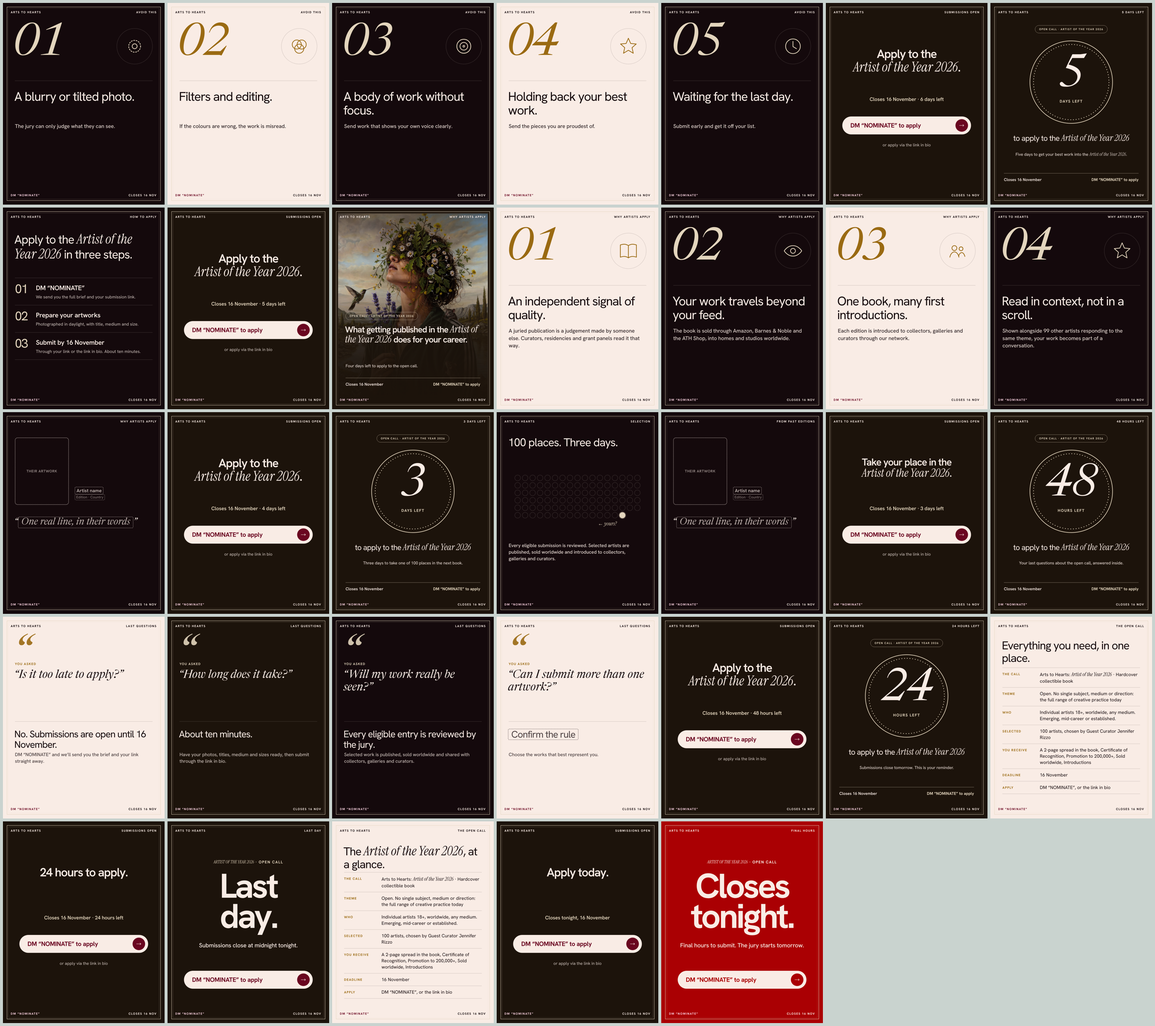
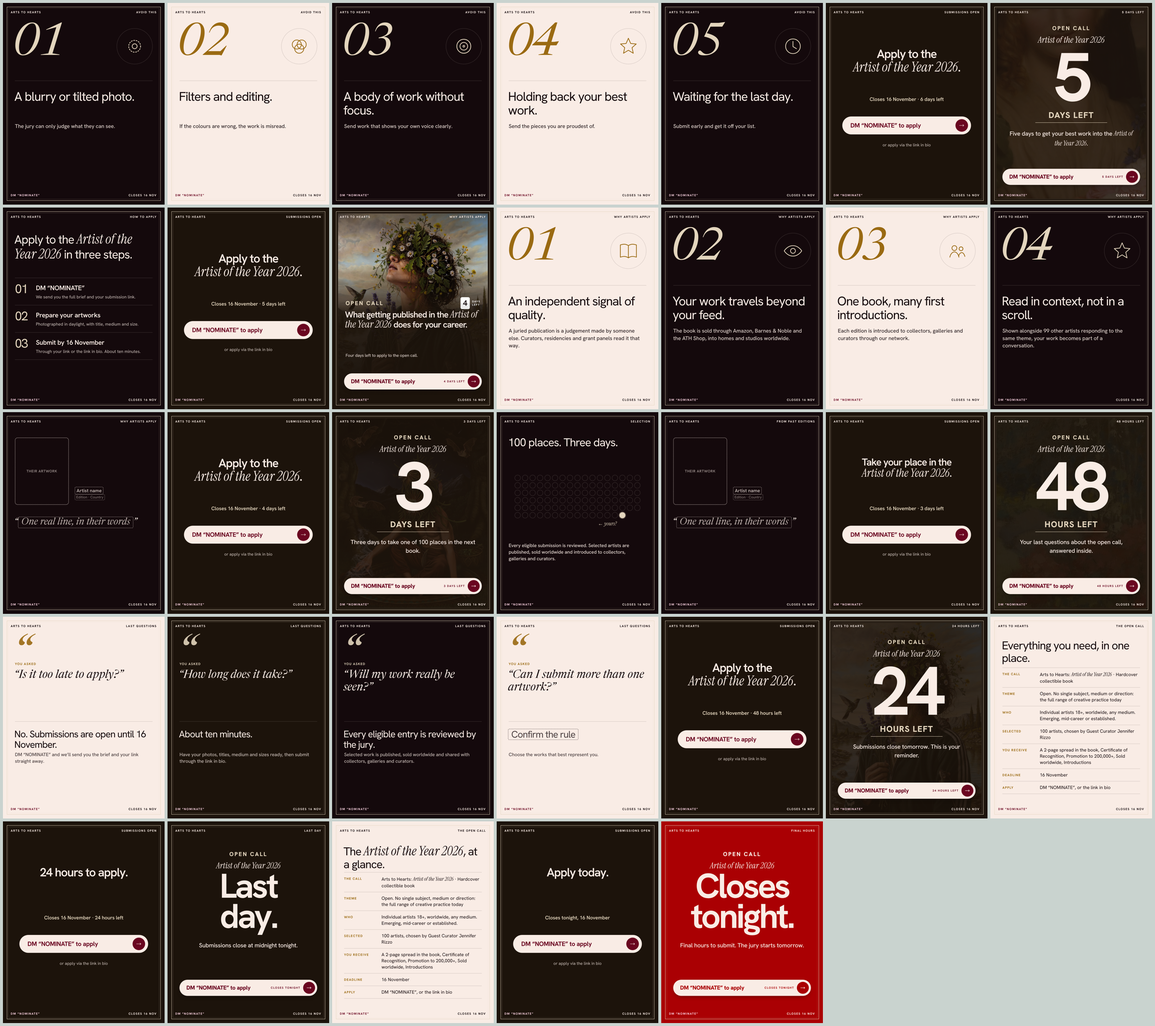
Conversion covers: big OPEN CALL label, bold countdown numerals, keyword + time-left action button
Claude-Session: https://claude.ai/code/session_01Bc4gkdxg6i3YRuybqzVB3k

diff --git a/design/campaigns/open-calls/month.js b/design/campaigns/open-calls/month.js
@@ -44,6 +44,15 @@ const ICON = {
 };
 const icon = (k, c, size=220) => `<svg width="${size}" height="${size}" viewBox="0 0 120 120" fill="none" stroke="${c}" stroke-width="4" stroke-linecap="round" stroke-linejoin="round">${ICON[k]||''}</svg>`;
 
+// big OPEN CALL label: the keyword artists scan for
+const OPENCALL = (c, center) => `<p style="font-size:38px;font-weight:800;letter-spacing:.16em;line-height:1;color:${c};${center ? 'text-align:center' : ''}">OPEN CALL</p>`;
+// the action: keyword + time left in one button
+const actionBtn = (top, chilli) => { const fg = chilli ? '#AA0003' : BURG;
+  return `<div class="a" style="left:80px;right:80px;top:${top}px;height:108px;border-radius:999px;background:${CREAM};color:${fg};display:flex;align-items:center;justify-content:space-between;padding:0 14px 0 46px;box-shadow:0 14px 30px -12px rgba(0,0,0,.45)">
+    <span style="font-size:38px;font-weight:800;letter-spacing:-.02em">${VERB} “${KW()}” to apply</span>
+    <span style="display:flex;align-items:center;gap:18px"><span class="cn" style="font-size:19px;color:${fg}">${leftLabel()}</span>
+    <span style="width:80px;height:80px;border-radius:50%;background:${fg};color:${CREAM};display:inline-flex;align-items:center;justify-content:center"><svg width="32" height="14" viewBox="0 0 46 20"><path d="M2 10h40M33 2l9 8-9 8" fill="none" stroke="currentColor" stroke-width="3.5" stroke-linecap="round" stroke-linejoin="round"/></svg></span></span></div>`; };
+
 // ---------- grounds ----------
 const G = {
   ink:   () => ({bg:INK,   fg:WHITE, acc:tint(state.colour), dm:PEONY, line:'rgba(255,255,255,.2)'}),
@@ -92,21 +101,20 @@ const T = {
   // countdown cover: artwork, the open call, one big number, what it is for
   count(o){
     const tone = o.tone || 'ink';
-    const shade = tone === 'green' ? `linear-gradient(180deg,${rgba(state.colour,.55)} 0%,${rgba(state.colour,.2)} 30%,${rgba(state.colour,.85)} 62%,${state.colour} 100%)`
-      : tone === 'chilli' ? 'linear-gradient(180deg,rgba(120,0,2,.6) 0%,rgba(120,0,2,.25) 30%,rgba(150,0,3,.9) 62%,#AA0003 100%)'
-      : 'linear-gradient(180deg,rgba(20,9,12,.6) 0%,rgba(20,9,12,.2) 30%,rgba(20,9,12,.85) 62%,rgba(20,9,12,.97) 100%)';
+    const shade = tone === 'green' ? `linear-gradient(180deg,${rgba(state.colour,.55)} 0%,${rgba(state.colour,.25)} 30%,${rgba(state.colour,.9)} 60%,${state.colour} 100%)`
+      : tone === 'chilli' ? 'linear-gradient(180deg,rgba(120,0,2,.6) 0%,rgba(120,0,2,.3) 30%,rgba(150,0,3,.92) 60%,#AA0003 100%)'
+      : 'linear-gradient(180deg,rgba(20,9,12,.6) 0%,rgba(20,9,12,.3) 30%,rgba(20,9,12,.88) 58%,rgba(20,9,12,.97) 100%)';
     const acc = tone === 'ink' ? tint(state.colour) : CREAM;
+    const big = String(o.big), size = big.length <= 2 ? 480 : big.length <= 8 ? 220 : 170;
     return {bg:INK, html:`${imgDiv(o.img || ART[0], 'inset:0', o.pos || 'center 25%')}
       <div class="a" style="inset:0;background:${shade}"></div>
       ${corners(WHITE, PEONY, o.tr || leftLabel())}
-      <div class="a" style="left:0;right:0;top:190px;display:flex;justify-content:center">${callBtn()}</div>
-      <p class="a c" style="left:0;right:0;top:${o.bigTop||330}px;font-size:${o.bigSize||400}px;font-weight:500;letter-spacing:-.06em;line-height:.85;color:${WHITE}">${o.big}</p>
-      <p class="a c R" style="left:60px;right:60px;top:${o.unitTop||690}px;font-size:${o.unitSize||84}px;color:${WHITE}">${o.unit}</p>
-      <p class="a c scr" style="left:60px;right:60px;top:${(o.unitTop||690)+(o.unitGap||110)}px;font-size:60px;line-height:1.05;color:${acc}">${o.line || `to apply · ${esc(state.name)} open call`}</p>
-      <p class="a c sub" style="left:140px;right:140px;top:${o.infoTop||990}px;font-size:30px;color:${WHITE};opacity:.9">${o.info || `${themeTag()}${esc(state.selected)} artists will be published in a juried hardcover book.`}</p>
-      <div class="a" style="left:80px;right:80px;top:1150px;display:flex;justify-content:space-between;align-items:center;padding-top:22px;border-top:2px solid rgba(255,255,255,.3)">
-        <span style="font-size:28px;font-weight:600;color:${WHITE}">Closes ${dateLong()}</span>
-        <span style="font-size:28px;font-weight:700;color:${acc}">${VERB} “${KW()}” to apply</span></div>`};
+      <div class="a" style="left:0;right:0;top:150px">${OPENCALL(acc, true)}</div>
+      <p class="a c scr" style="left:0;right:0;top:205px;font-size:58px;color:${WHITE}">${esc(state.name)}</p>
+      <p class="a c" style="left:0;right:0;top:${big.length <= 2 ? 300 : 380}px;font-size:${size}px;font-weight:700;letter-spacing:-.06em;line-height:.85;color:${WHITE}">${big}</p>
+      <p class="a c" style="left:0;right:0;top:${big.length <= 2 ? 720 : 640}px;font-size:56px;font-weight:800;letter-spacing:.06em;text-transform:uppercase;color:${acc}">${esc(o.unit)}</p>
+      <p class="a c" style="left:120px;right:120px;top:${big.length <= 2 ? 820 : 760}px;font-size:40px;font-weight:500;letter-spacing:-.015em;color:${WHITE}">${o.info || `to get your work into a juried hardcover book of ${esc(state.selected)} artists.`}</p>
+      ${actionBtn(1110, tone === 'chilli')}`};
   },
   // the whole open call on one page
   brief(o = {}){
@@ -213,25 +221,19 @@ const T = {
   // closing slide of every carousel: one clear action
   // every carousel opens on this: what it is, why it matters, when it closes, how to act
   hook(o){
-    const strip = (fg, acc) => `
-      <div class="a" style="left:80px;right:80px;top:1150px;display:flex;justify-content:space-between;align-items:center;padding-top:22px;border-top:2px solid ${fg === WHITE ? 'rgba(255,255,255,.3)' : 'rgba(20,9,12,.2)'}">
-        <span style="font-size:28px;font-weight:600;color:${fg}">Closes ${dateLong()}</span>
-        <span style="font-size:28px;font-weight:700;color:${acc}">${VERB} “${KW()}” to apply</span></div>`;
+    const shrink = String(state.name).length > 16 ? .86 : 1;
+    const head = (fg, acc, timerDark) => `
+      <div class="a" style="left:80px;right:80px;top:600px;display:flex;justify-content:space-between;align-items:center">${OPENCALL(acc)}${timer(timerDark)}</div>
+      <p class="a H" style="left:76px;right:80px;top:680px;font-size:${Math.round((o.size||84) * shrink)}px;color:${fg}">${o.head}</p>
+      ${o.sub ? `<p class="a sub" style="left:80px;right:140px;top:${o.subTop||970}px;font-size:29px;color:${fg};opacity:.9">${o.sub}</p>` : ''}
+      ${actionBtn(1110)}`;
     if (o.img) return {bg:INK, html:`${imgDiv(o.img,'inset:0',o.pos||'center 30%')}
-      <div class="a" style="inset:0;background:linear-gradient(180deg,rgba(20,9,12,.45) 0%,rgba(20,9,12,0) 18%,rgba(20,9,12,0) 34%,rgba(20,9,12,.82) 58%,rgba(20,9,12,.95) 100%)"></div>
-      ${corners(WHITE, PEONY, o.tr)}
-      <div class="a" style="left:80px;right:80px;top:620px;display:flex;justify-content:space-between;align-items:center">${callBtn()}${timer(false)}</div>
-      <p class="a H" style="left:76px;right:80px;top:740px;font-size:${Math.round((o.size||88) * (String(state.name).length > 16 ? .86 : 1))}px;color:${WHITE}">${o.head}</p>
-      ${o.sub ? `<p class="a sub" style="left:80px;right:140px;top:${o.subTop||1030}px;color:${WHITE};opacity:.9">${o.sub}</p>` : ''}
-      ${strip(WHITE, tint(state.colour))}`};
+      <div class="a" style="inset:0;background:linear-gradient(180deg,rgba(20,9,12,.45) 0%,rgba(20,9,12,0) 16%,rgba(20,9,12,0) 30%,rgba(20,9,12,.85) 52%,rgba(20,9,12,.96) 100%)"></div>
+      ${corners(WHITE, PEONY, o.tr)}${head(WHITE, tint(state.colour), false)}`};
     const g = G[o.ground||'ink']();
-    const pic = o.img2 !== undefined ? slot(o.img2, o.imgLabel || 'Real photo needed', 'left:80px;right:80px;top:140px;height:440px', g.fg)
-      : imgDiv(o.art || ART[0], 'left:80px;right:80px;top:140px;height:440px;border-radius:18px', o.artPos || 'center 30%');
-    return {bg:g.bg, html:`${corners(g.fg, g.dm, o.tr)}${pic}
-      <div class="a" style="left:80px;right:80px;top:620px;display:flex;justify-content:space-between;align-items:center">${callBtn()}${timer(g.bg === CREAM)}</div>
-      <p class="a H" style="left:76px;right:80px;top:740px;font-size:${Math.round((o.size||80) * (String(state.name).length > 16 ? .86 : 1))}px;color:${g.fg}">${o.head}</p>
-      ${o.sub ? `<p class="a sub" style="left:80px;right:140px;top:${o.subTop||1030}px;color:${g.fg};opacity:.85">${o.sub}</p>` : ''}
-      ${strip(g.fg, g.acc)}`};
+    const pic = o.img2 !== undefined ? slot(o.img2, o.imgLabel || 'Real photo needed', 'left:80px;right:80px;top:130px;height:430px', g.fg)
+      : imgDiv(o.art || ART[0], 'left:80px;right:80px;top:130px;height:430px;border-radius:18px', o.artPos || 'center 30%');
+    return {bg:g.bg, html:`${corners(g.fg, g.dm, o.tr)}${pic}${head(g.fg, g.acc, g.bg === CREAM)}`};
   },
   // after every countdown: what the deadline is for
   value(o = {}){
@@ -284,30 +286,32 @@ const awardTag = () => `<span class="cn" style="display:inline-flex;align-items:
 const AW = {
   hook(o){ const c = gold();
     return {bg:AWARD_BG, html:`${imgDiv(o.img || o.art || ART[0], 'left:40px;right:40px;top:40px;bottom:40px', o.pos || o.artPos || 'center 30%')}
-      <div class="a" style="left:40px;right:40px;top:40px;bottom:40px;background:linear-gradient(180deg,rgba(28,19,11,.5) 0%,rgba(28,19,11,0) 22%,rgba(28,19,11,0) 40%,rgba(28,19,11,.88) 64%,#1C130B 100%)"></div>
+      <div class="a" style="left:40px;right:40px;top:40px;bottom:40px;background:linear-gradient(180deg,rgba(28,19,11,.5) 0%,rgba(28,19,11,0) 18%,rgba(28,19,11,0) 30%,rgba(28,19,11,.9) 52%,#1C130B 100%)"></div>
       ${frame(c)}${corners(CREAM, PEONY, o.tr)}
-      <div class="a" style="left:90px;top:700px">${awardTag()}</div>
-      <p class="a H" style="left:86px;right:90px;top:780px;font-size:${Math.round((o.size||80)*.8)}px;color:${CREAM}">${o.head}</p>
-      ${o.sub ? `<p class="a sub" style="left:90px;right:150px;top:1040px;font-size:28px;color:${CREAM};opacity:.85">${o.sub}</p>` : ''}
-      ${strip(CREAM, c)}`};
+      <div class="a" style="left:90px;right:90px;top:600px;display:flex;justify-content:space-between;align-items:center">${OPENCALL(c)}${timer(false)}</div>
+      <p class="a H" style="left:86px;right:90px;top:680px;font-size:${Math.round((o.size||80)*.8)}px;color:${CREAM}">${o.head}</p>
+      ${o.sub ? `<p class="a sub" style="left:90px;right:150px;top:970px;font-size:28px;color:${CREAM};opacity:.85">${o.sub}</p>` : ''}
+      ${actionBtn(1110)}`};
   },
-  count(o){ const c = gold(); const tone = o.tone === 'chilli' ? '#5A0A0A' : AWARD_BG;
-    const big = String(o.big); const size = big.length <= 2 ? 300 : big.length <= 8 ? 120 : 96;
-    return {bg:tone, html:`${frame(c)}${corners(CREAM, PEONY, o.tr || leftLabel())}
-      <div class="a c" style="left:0;right:0;top:150px">${awardTag()}</div>
-      ${laurel(c, 600).replace('{TOP}', 230)}
-      <div class="a c" style="left:0;right:0;top:${big.length <= 2 ? 360 : 440}px">${serifNum(big, size, CREAM)}</div>
-      <p class="a c lab" style="left:0;right:0;top:${big.length <= 2 ? 640 : 610}px;color:${c};font-size:26px">${esc(o.unit)}</p>
-      <p class="a c R" style="left:110px;right:110px;top:870px;font-size:52px;color:${CREAM}">to apply to the ${GE()}</p>
-      <p class="a c sub" style="left:160px;right:160px;top:${o.infoTop ? o.infoTop + 40 : 990}px;font-size:28px;color:${CREAM};opacity:.85">${o.info || `${esc(state.selected)} artists will be published in a juried hardcover book.`}</p>
-      ${strip(CREAM, c)}`};
+  count(o){ const c = gold(); const chilli = o.tone === 'chilli'; const bg = chilli ? '#5A0A0A' : AWARD_BG;
+    const big = String(o.big), size = big.length <= 2 ? 460 : big.length <= 8 ? 200 : 150;
+    return {bg, html:`${imgDiv(o.img || ART[0], 'left:40px;right:40px;top:40px;bottom:40px', o.pos || 'center 30%')}
+      <div class="a" style="left:40px;right:40px;top:40px;bottom:40px;background:${chilli ? 'rgba(90,10,10,.9)' : 'rgba(28,19,11,.86)'}"></div>
+      ${frame(c)}${corners(CREAM, PEONY, o.tr || leftLabel())}
+      <div class="a" style="left:0;right:0;top:150px">${OPENCALL(c, true)}</div>
+      <p class="a c scr" style="left:0;right:0;top:205px;font-size:58px;color:${CREAM}">${esc(state.name)}</p>
+      <p class="a c" style="left:0;right:0;top:${big.length <= 2 ? 300 : 380}px;font-size:${size}px;font-weight:700;letter-spacing:-.05em;line-height:.85;color:${CREAM}">${big}</p>
+      <p class="a c" style="left:0;right:0;top:${big.length <= 2 ? 710 : 630}px;font-size:56px;font-weight:800;letter-spacing:.06em;text-transform:uppercase;color:${c}">${esc(o.unit)}</p>
+      <div class="a" style="left:300px;right:300px;top:${big.length <= 2 ? 800 : 730}px;border-top:2px solid ${c}"></div>
+      <p class="a c" style="left:120px;right:120px;top:${big.length <= 2 ? 840 : 770}px;font-size:40px;font-weight:500;letter-spacing:-.015em;color:${CREAM}">${o.info || `to get your work into a juried hardcover book of ${esc(state.selected)} artists.`}</p>
+      ${actionBtn(1110, chilli)}`};
   },
 };
 // final day: one message, nothing else
 T.urgent = (o) => { const award = isAward(); const bg = o.chilli ? '#AA0003' : (award ? AWARD_BG : INK); const acc = o.chilli ? CREAM : tint(state.colour);
-  const btn = btnCTA(CREAM, o.chilli ? '#AA0003' : BURG, o.chilli ? '#AA0003' : BURG).replace('{TOP}', 1000);
+  const btn = actionBtn(1060, o.chilli);
   return {bg, html:`${award ? frame(gold()) : ''}${corners(CREAM, PEONY, o.tr || 'Final day')}
-    <p class="a c lab" style="left:0;right:0;top:250px;color:${acc};font-size:26px">${GE()} · open call</p>
+    <div class="a" style="left:0;right:0;top:200px">${OPENCALL(acc, true)}</div><p class="a c scr" style="left:0;right:0;top:255px;font-size:56px;color:${CREAM}">${esc(state.name)}</p>
     <p class="a c" style="left:40px;right:40px;top:330px;font-size:${o.size||230}px;font-weight:700;letter-spacing:-.055em;line-height:.88;color:${CREAM}">${o.head}</p>
     <p class="a c" style="left:120px;right:120px;top:${o.subTop||800}px;font-size:40px;font-weight:500;letter-spacing:-.015em;color:${CREAM}">${o.sub}</p>
     ${btn}`};

diff --git a/site/post-studio/month.js b/site/post-studio/month.js
@@ -44,6 +44,15 @@ const ICON = {
 };
 const icon = (k, c, size=220) => `<svg width="${size}" height="${size}" viewBox="0 0 120 120" fill="none" stroke="${c}" stroke-width="4" stroke-linecap="round" stroke-linejoin="round">${ICON[k]||''}</svg>`;
 
+// big OPEN CALL label: the keyword artists scan for
+const OPENCALL = (c, center) => `<p style="font-size:38px;font-weight:800;letter-spacing:.16em;line-height:1;color:${c};${center ? 'text-align:center' : ''}">OPEN CALL</p>`;
+// the action: keyword + time left in one button
+const actionBtn = (top, chilli) => { const fg = chilli ? '#AA0003' : BURG;
+  return `<div class="a" style="left:80px;right:80px;top:${top}px;height:108px;border-radius:999px;background:${CREAM};color:${fg};display:flex;align-items:center;justify-content:space-between;padding:0 14px 0 46px;box-shadow:0 14px 30px -12px rgba(0,0,0,.45)">
+    <span style="font-size:38px;font-weight:800;letter-spacing:-.02em">${VERB} “${KW()}” to apply</span>
+    <span style="display:flex;align-items:center;gap:18px"><span class="cn" style="font-size:19px;color:${fg}">${leftLabel()}</span>
+    <span style="width:80px;height:80px;border-radius:50%;background:${fg};color:${CREAM};display:inline-flex;align-items:center;justify-content:center"><svg width="32" height="14" viewBox="0 0 46 20"><path d="M2 10h40M33 2l9 8-9 8" fill="none" stroke="currentColor" stroke-width="3.5" stroke-linecap="round" stroke-linejoin="round"/></svg></span></span></div>`; };
+
 // ---------- grounds ----------
 const G = {
   ink:   () => ({bg:INK,   fg:WHITE, acc:tint(state.colour), dm:PEONY, line:'rgba(255,255,255,.2)'}),
@@ -92,21 +101,20 @@ const T = {
   // countdown cover: artwork, the open call, one big number, what it is for
   count(o){
     const tone = o.tone || 'ink';
-    const shade = tone === 'green' ? `linear-gradient(180deg,${rgba(state.colour,.55)} 0%,${rgba(state.colour,.2)} 30%,${rgba(state.colour,.85)} 62%,${state.colour} 100%)`
-      : tone === 'chilli' ? 'linear-gradient(180deg,rgba(120,0,2,.6) 0%,rgba(120,0,2,.25) 30%,rgba(150,0,3,.9) 62%,#AA0003 100%)'
-      : 'linear-gradient(180deg,rgba(20,9,12,.6) 0%,rgba(20,9,12,.2) 30%,rgba(20,9,12,.85) 62%,rgba(20,9,12,.97) 100%)';
+    const shade = tone === 'green' ? `linear-gradient(180deg,${rgba(state.colour,.55)} 0%,${rgba(state.colour,.25)} 30%,${rgba(state.colour,.9)} 60%,${state.colour} 100%)`
+      : tone === 'chilli' ? 'linear-gradient(180deg,rgba(120,0,2,.6) 0%,rgba(120,0,2,.3) 30%,rgba(150,0,3,.92) 60%,#AA0003 100%)'
+      : 'linear-gradient(180deg,rgba(20,9,12,.6) 0%,rgba(20,9,12,.3) 30%,rgba(20,9,12,.88) 58%,rgba(20,9,12,.97) 100%)';
     const acc = tone === 'ink' ? tint(state.colour) : CREAM;
+    const big = String(o.big), size = big.length <= 2 ? 480 : big.length <= 8 ? 220 : 170;
     return {bg:INK, html:`${imgDiv(o.img || ART[0], 'inset:0', o.pos || 'center 25%')}
       <div class="a" style="inset:0;background:${shade}"></div>
       ${corners(WHITE, PEONY, o.tr || leftLabel())}
-      <div class="a" style="left:0;right:0;top:190px;display:flex;justify-content:center">${callBtn()}</div>
-      <p class="a c" style="left:0;right:0;top:${o.bigTop||330}px;font-size:${o.bigSize||400}px;font-weight:500;letter-spacing:-.06em;line-height:.85;color:${WHITE}">${o.big}</p>
-      <p class="a c R" style="left:60px;right:60px;top:${o.unitTop||690}px;font-size:${o.unitSize||84}px;color:${WHITE}">${o.unit}</p>
-      <p class="a c scr" style="left:60px;right:60px;top:${(o.unitTop||690)+(o.unitGap||110)}px;font-size:60px;line-height:1.05;color:${acc}">${o.line || `to apply · ${esc(state.name)} open call`}</p>
-      <p class="a c sub" style="left:140px;right:140px;top:${o.infoTop||990}px;font-size:30px;color:${WHITE};opacity:.9">${o.info || `${themeTag()}${esc(state.selected)} artists will be published in a juried hardcover book.`}</p>
-      <div class="a" style="left:80px;right:80px;top:1150px;display:flex;justify-content:space-between;align-items:center;padding-top:22px;border-top:2px solid rgba(255,255,255,.3)">
-        <span style="font-size:28px;font-weight:600;color:${WHITE}">Closes ${dateLong()}</span>
-        <span style="font-size:28px;font-weight:700;color:${acc}">${VERB} “${KW()}” to apply</span></div>`};
+      <div class="a" style="left:0;right:0;top:150px">${OPENCALL(acc, true)}</div>
+      <p class="a c scr" style="left:0;right:0;top:205px;font-size:58px;color:${WHITE}">${esc(state.name)}</p>
+      <p class="a c" style="left:0;right:0;top:${big.length <= 2 ? 300 : 380}px;font-size:${size}px;font-weight:700;letter-spacing:-.06em;line-height:.85;color:${WHITE}">${big}</p>
+      <p class="a c" style="left:0;right:0;top:${big.length <= 2 ? 720 : 640}px;font-size:56px;font-weight:800;letter-spacing:.06em;text-transform:uppercase;color:${acc}">${esc(o.unit)}</p>
+      <p class="a c" style="left:120px;right:120px;top:${big.length <= 2 ? 820 : 760}px;font-size:40px;font-weight:500;letter-spacing:-.015em;color:${WHITE}">${o.info || `to get your work into a juried hardcover book of ${esc(state.selected)} artists.`}</p>
+      ${actionBtn(1110, tone === 'chilli')}`};
   },
   // the whole open call on one page
   brief(o = {}){
@@ -213,25 +221,19 @@ const T = {
   // closing slide of every carousel: one clear action
   // every carousel opens on this: what it is, why it matters, when it closes, how to act
   hook(o){
-    const strip = (fg, acc) => `
-      <div class="a" style="left:80px;right:80px;top:1150px;display:flex;justify-content:space-between;align-items:center;padding-top:22px;border-top:2px solid ${fg === WHITE ? 'rgba(255,255,255,.3)' : 'rgba(20,9,12,.2)'}">
-        <span style="font-size:28px;font-weight:600;color:${fg}">Closes ${dateLong()}</span>
-        <span style="font-size:28px;font-weight:700;color:${acc}">${VERB} “${KW()}” to apply</span></div>`;
+    const shrink = String(state.name).length > 16 ? .86 : 1;
+    const head = (fg, acc, timerDark) => `
+      <div class="a" style="left:80px;right:80px;top:600px;display:flex;justify-content:space-between;align-items:center">${OPENCALL(acc)}${timer(timerDark)}</div>
+      <p class="a H" style="left:76px;right:80px;top:680px;font-size:${Math.round((o.size||84) * shrink)}px;color:${fg}">${o.head}</p>
+      ${o.sub ? `<p class="a sub" style="left:80px;right:140px;top:${o.subTop||970}px;font-size:29px;color:${fg};opacity:.9">${o.sub}</p>` : ''}
+      ${actionBtn(1110)}`;
     if (o.img) return {bg:INK, html:`${imgDiv(o.img,'inset:0',o.pos||'center 30%')}
-      <div class="a" style="inset:0;background:linear-gradient(180deg,rgba(20,9,12,.45) 0%,rgba(20,9,12,0) 18%,rgba(20,9,12,0) 34%,rgba(20,9,12,.82) 58%,rgba(20,9,12,.95) 100%)"></div>
-      ${corners(WHITE, PEONY, o.tr)}
-      <div class="a" style="left:80px;right:80px;top:620px;display:flex;justify-content:space-between;align-items:center">${callBtn()}${timer(false)}</div>
-      <p class="a H" style="left:76px;right:80px;top:740px;font-size:${Math.round((o.size||88) * (String(state.name).length > 16 ? .86 : 1))}px;color:${WHITE}">${o.head}</p>
-      ${o.sub ? `<p class="a sub" style="left:80px;right:140px;top:${o.subTop||1030}px;color:${WHITE};opacity:.9">${o.sub}</p>` : ''}
-      ${strip(WHITE, tint(state.colour))}`};
+      <div class="a" style="inset:0;background:linear-gradient(180deg,rgba(20,9,12,.45) 0%,rgba(20,9,12,0) 16%,rgba(20,9,12,0) 30%,rgba(20,9,12,.85) 52%,rgba(20,9,12,.96) 100%)"></div>
+      ${corners(WHITE, PEONY, o.tr)}${head(WHITE, tint(state.colour), false)}`};
     const g = G[o.ground||'ink']();
-    const pic = o.img2 !== undefined ? slot(o.img2, o.imgLabel || 'Real photo needed', 'left:80px;right:80px;top:140px;height:440px', g.fg)
-      : imgDiv(o.art || ART[0], 'left:80px;right:80px;top:140px;height:440px;border-radius:18px', o.artPos || 'center 30%');
-    return {bg:g.bg, html:`${corners(g.fg, g.dm, o.tr)}${pic}
-      <div class="a" style="left:80px;right:80px;top:620px;display:flex;justify-content:space-between;align-items:center">${callBtn()}${timer(g.bg === CREAM)}</div>
-      <p class="a H" style="left:76px;right:80px;top:740px;font-size:${Math.round((o.size||80) * (String(state.name).length > 16 ? .86 : 1))}px;color:${g.fg}">${o.head}</p>
-      ${o.sub ? `<p class="a sub" style="left:80px;right:140px;top:${o.subTop||1030}px;color:${g.fg};opacity:.85">${o.sub}</p>` : ''}
-      ${strip(g.fg, g.acc)}`};
+    const pic = o.img2 !== undefined ? slot(o.img2, o.imgLabel || 'Real photo needed', 'left:80px;right:80px;top:130px;height:430px', g.fg)
+      : imgDiv(o.art || ART[0], 'left:80px;right:80px;top:130px;height:430px;border-radius:18px', o.artPos || 'center 30%');
+    return {bg:g.bg, html:`${corners(g.fg, g.dm, o.tr)}${pic}${head(g.fg, g.acc, g.bg === CREAM)}`};
   },
   // after every countdown: what the deadline is for
   value(o = {}){
@@ -284,30 +286,32 @@ const awardTag = () => `<span class="cn" style="display:inline-flex;align-items:
 const AW = {
   hook(o){ const c = gold();
     return {bg:AWARD_BG, html:`${imgDiv(o.img || o.art || ART[0], 'left:40px;right:40px;top:40px;bottom:40px', o.pos || o.artPos || 'center 30%')}
-      <div class="a" style="left:40px;right:40px;top:40px;bottom:40px;background:linear-gradient(180deg,rgba(28,19,11,.5) 0%,rgba(28,19,11,0) 22%,rgba(28,19,11,0) 40%,rgba(28,19,11,.88) 64%,#1C130B 100%)"></div>
+      <div class="a" style="left:40px;right:40px;top:40px;bottom:40px;background:linear-gradient(180deg,rgba(28,19,11,.5) 0%,rgba(28,19,11,0) 18%,rgba(28,19,11,0) 30%,rgba(28,19,11,.9) 52%,#1C130B 100%)"></div>
       ${frame(c)}${corners(CREAM, PEONY, o.tr)}
-      <div class="a" style="left:90px;top:700px">${awardTag()}</div>
-      <p class="a H" style="left:86px;right:90px;top:780px;font-size:${Math.round((o.size||80)*.8)}px;color:${CREAM}">${o.head}</p>
-      ${o.sub ? `<p class="a sub" style="left:90px;right:150px;top:1040px;font-size:28px;color:${CREAM};opacity:.85">${o.sub}</p>` : ''}
-      ${strip(CREAM, c)}`};
+      <div class="a" style="left:90px;right:90px;top:600px;display:flex;justify-content:space-between;align-items:center">${OPENCALL(c)}${timer(false)}</div>
+      <p class="a H" style="left:86px;right:90px;top:680px;font-size:${Math.round((o.size||80)*.8)}px;color:${CREAM}">${o.head}</p>
+      ${o.sub ? `<p class="a sub" style="left:90px;right:150px;top:970px;font-size:28px;color:${CREAM};opacity:.85">${o.sub}</p>` : ''}
+      ${actionBtn(1110)}`};
   },
-  count(o){ const c = gold(); const tone = o.tone === 'chilli' ? '#5A0A0A' : AWARD_BG;
-    const big = String(o.big); const size = big.length <= 2 ? 300 : big.length <= 8 ? 120 : 96;
-    return {bg:tone, html:`${frame(c)}${corners(CREAM, PEONY, o.tr || leftLabel())}
-      <div class="a c" style="left:0;right:0;top:150px">${awardTag()}</div>
-      ${laurel(c, 600).replace('{TOP}', 230)}
-      <div class="a c" style="left:0;right:0;top:${big.length <= 2 ? 360 : 440}px">${serifNum(big, size, CREAM)}</div>
-      <p class="a c lab" style="left:0;right:0;top:${big.length <= 2 ? 640 : 610}px;color:${c};font-size:26px">${esc(o.unit)}</p>
-      <p class="a c R" style="left:110px;right:110px;top:870px;font-size:52px;color:${CREAM}">to apply to the ${GE()}</p>
-      <p class="a c sub" style="left:160px;right:160px;top:${o.infoTop ? o.infoTop + 40 : 990}px;font-size:28px;color:${CREAM};opacity:.85">${o.info || `${esc(state.selected)} artists will be published in a juried hardcover book.`}</p>
-      ${strip(CREAM, c)}`};
+  count(o){ const c = gold(); const chilli = o.tone === 'chilli'; const bg = chilli ? '#5A0A0A' : AWARD_BG;
+    const big = String(o.big), size = big.length <= 2 ? 460 : big.length <= 8 ? 200 : 150;
+    return {bg, html:`${imgDiv(o.img || ART[0], 'left:40px;right:40px;top:40px;bottom:40px', o.pos || 'center 30%')}
+      <div class="a" style="left:40px;right:40px;top:40px;bottom:40px;background:${chilli ? 'rgba(90,10,10,.9)' : 'rgba(28,19,11,.86)'}"></div>
+      ${frame(c)}${corners(CREAM, PEONY, o.tr || leftLabel())}
+      <div class="a" style="left:0;right:0;top:150px">${OPENCALL(c, true)}</div>
+      <p class="a c scr" style="left:0;right:0;top:205px;font-size:58px;color:${CREAM}">${esc(state.name)}</p>
+      <p class="a c" style="left:0;right:0;top:${big.length <= 2 ? 300 : 380}px;font-size:${size}px;font-weight:700;letter-spacing:-.05em;line-height:.85;color:${CREAM}">${big}</p>
+      <p class="a c" style="left:0;right:0;top:${big.length <= 2 ? 710 : 630}px;font-size:56px;font-weight:800;letter-spacing:.06em;text-transform:uppercase;color:${c}">${esc(o.unit)}</p>
+      <div class="a" style="left:300px;right:300px;top:${big.length <= 2 ? 800 : 730}px;border-top:2px solid ${c}"></div>
+      <p class="a c" style="left:120px;right:120px;top:${big.length <= 2 ? 840 : 770}px;font-size:40px;font-weight:500;letter-spacing:-.015em;color:${CREAM}">${o.info || `to get your work into a juried hardcover book of ${esc(state.selected)} artists.`}</p>
+      ${actionBtn(1110, chilli)}`};
   },
 };
 // final day: one message, nothing else
 T.urgent = (o) => { const award = isAward(); const bg = o.chilli ? '#AA0003' : (award ? AWARD_BG : INK); const acc = o.chilli ? CREAM : tint(state.colour);
-  const btn = btnCTA(CREAM, o.chilli ? '#AA0003' : BURG, o.chilli ? '#AA0003' : BURG).replace('{TOP}', 1000);
+  const btn = actionBtn(1060, o.chilli);
   return {bg, html:`${award ? frame(gold()) : ''}${corners(CREAM, PEONY, o.tr || 'Final day')}
-    <p class="a c lab" style="left:0;right:0;top:250px;color:${acc};font-size:26px">${GE()} · open call</p>
+    <div class="a" style="left:0;right:0;top:200px">${OPENCALL(acc, true)}</div><p class="a c scr" style="left:0;right:0;top:255px;font-size:56px;color:${CREAM}">${esc(state.name)}</p>
     <p class="a c" style="left:40px;right:40px;top:330px;font-size:${o.size||230}px;font-weight:700;letter-spacing:-.055em;line-height:.88;color:${CREAM}">${o.head}</p>
     <p class="a c" style="left:120px;right:120px;top:${o.subTop||800}px;font-size:40px;font-weight:500;letter-spacing:-.015em;color:${CREAM}">${o.sub}</p>
     ${btn}`};
